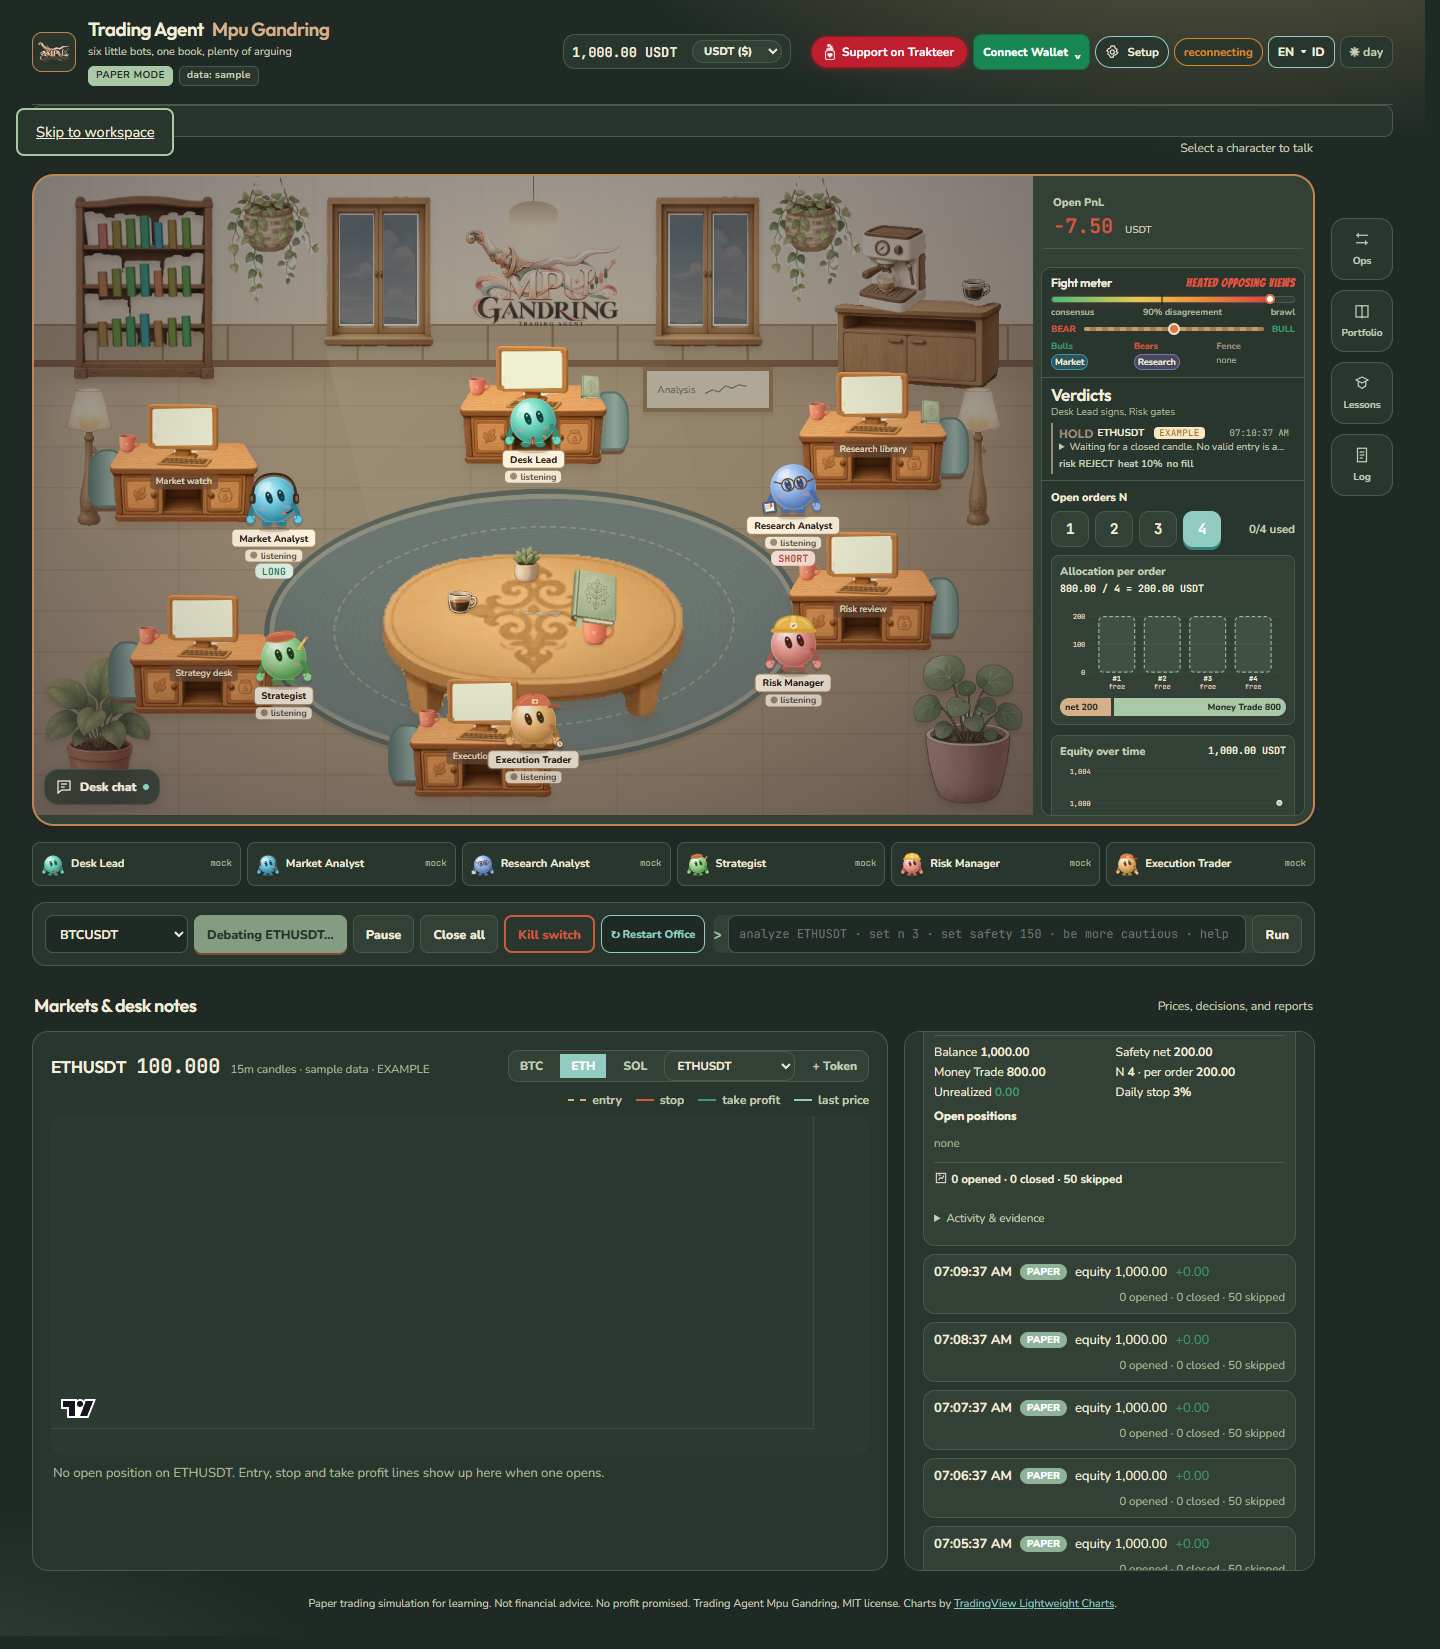
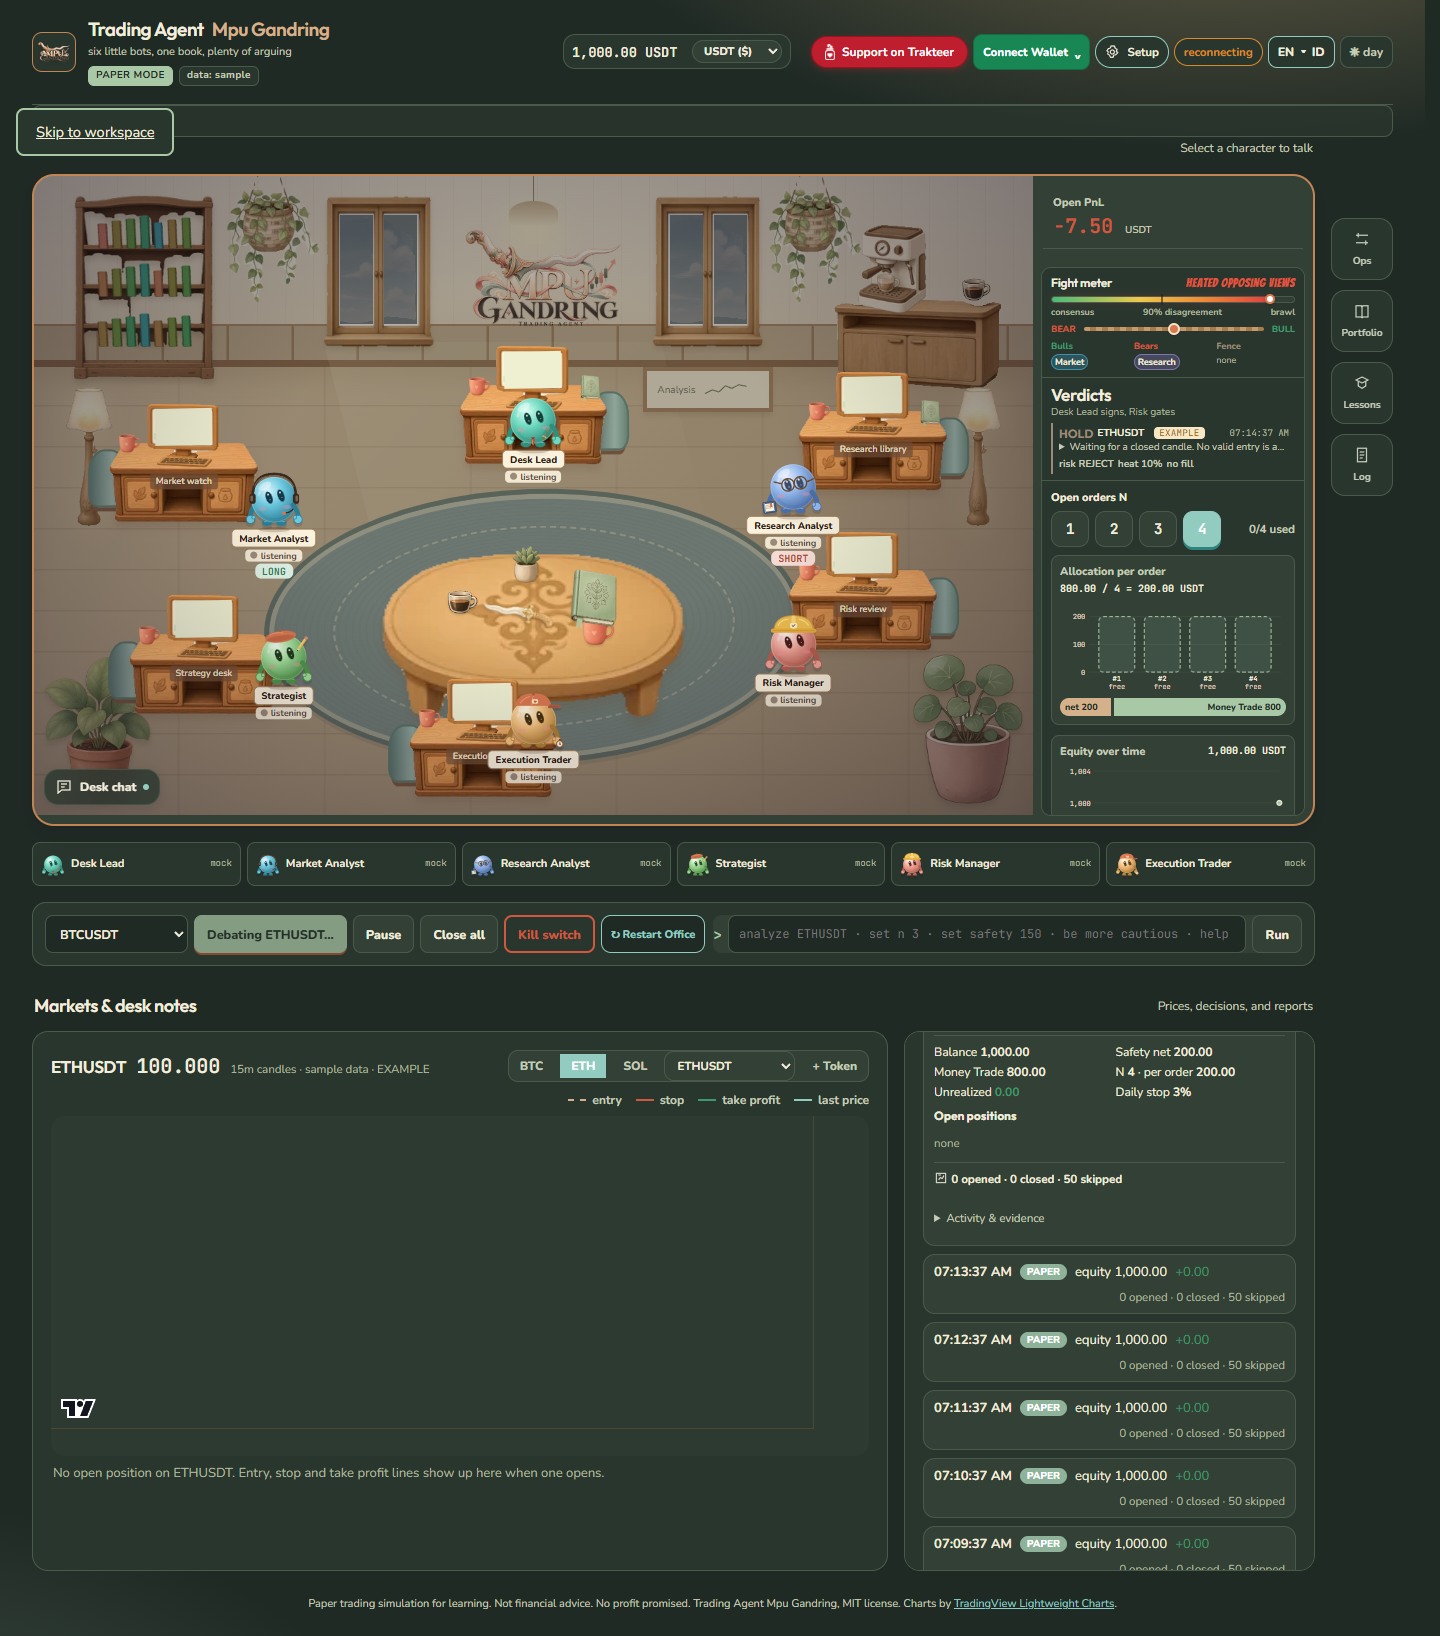
Use supplied keris artwork on discussion table

diff --git a/tests/i18n.test.ts b/tests/i18n.test.ts
@@ -43,22 +43,22 @@ describe('Dual language i18n parity and updater adapter', () => {
   });
 
   it('compares dotted version strings and checks update status at current release version', async () => {
-    expect(APP_VERSION).toBe('0.0.0.3.6');
+    expect(APP_VERSION).toBe('0.0.0.3.7');
     expect(compareVersions('0.0.0.2.6', '0.0.0.2.6')).toBe(0);
     expect(compareVersions('0.0.0.2.6', '0.0.0.2.5')).toBe(1);
     expect(compareVersions('0.0.0.3.3', '0.0.0.2.6')).toBe(1);
     expect(compareVersions('0.0.0.1.9', '0.0.0.2.6')).toBe(-1);
 
     const fakeNewerFetch = async () =>
-      new Response(JSON.stringify({ appVersion: '0.0.0.3.7', changelog: ['New feature'] }), { status: 200 });
+      new Response(JSON.stringify({ appVersion: '0.0.0.3.8', changelog: ['New feature'] }), { status: 200 });
     const st = await checkUpdate(fakeNewerFetch as unknown as typeof fetch);
     expect(st.ok).toBe(true);
-    expect(st.currentVersion).toBe('0.0.0.3.6');
-    expect(st.latestVersion).toBe('0.0.0.3.7');
+    expect(st.currentVersion).toBe('0.0.0.3.7');
+    expect(st.latestVersion).toBe('0.0.0.3.8');
     expect(st.updateAvailable).toBe(true);
 
     const applied = applyUpdate(process.cwd(), () => ({ status: 0, stdout: 'Already up to date.\\n', stderr: '' }));
     expect(applied.ok).toBe(true);
-    expect(applied.currentVersion).toBe('0.0.0.3.6');
+    expect(applied.currentVersion).toBe('0.0.0.3.7');
   });
 });

diff --git a/web/src/components/Office.tsx b/web/src/components/Office.tsx
@@ -3,7 +3,6 @@ import type { ReactNode } from 'react';
 import type { AgentId, AgentView, DeskState, Fight, Reaction, Speech } from '../types';
 import { AGENT_ORDER } from '../types';
 import { Bot, type Face, type Pose } from './Bot';
-import { KerisBlade } from './Keris';
 import { Sparkline } from './MiniCharts';
 import { SEATS, WORKSTATIONS, FIGHT_STAGE, SPECTATORS, heatedDebateFight, officePnl, route, type Activity, type Point, type SceneEvent } from '../sceneDirector';
 import { useSceneDirector } from '../useSceneDirector';
@@ -208,7 +207,7 @@ export function Office({ state, sceneEvents, speech, fights, reactions, disagree
       </div>
       <div className="studio-meeting" style={{ left: '50%', top: '72%' }} aria-label="Agent discussion table">
         <img src={asset('023_keyboard_round-coffee-table')} alt="" />
-        <div className="studio-table-inlay"><KerisBlade size={60} /></div>
+        <div className="studio-table-inlay"><img src={asset('026_curved-blade_ornate-dagger')} alt="" width={337} height={940} /></div>
         <img className="meeting-cup cup-left" src={asset('012_coffee-cup')} alt="" />
         <img className="meeting-cup cup-right" src={asset('001_ceramic-mug')} alt="" />
         <img className="meeting-book" src={asset('030_closed-book')} alt="" />

diff --git a/web/src/styles/office-v2.css b/web/src/styles/office-v2.css
@@ -53,7 +53,8 @@
 .studio-wall-board svg { width: 45%; height: 100%; }
 .studio-meeting { position: absolute; width: 31%; aspect-ratio: 1.8; transform: translate(-50%, -50%); z-index: 720; pointer-events: none; }
 .studio-meeting > img:first-child { position: absolute; width: 100%; height: 100%; object-fit: fill; filter: drop-shadow(0 9px 5px #69503138); }
-.studio-table-inlay { position: absolute; top: 17%; left: 50%; transform: translateX(-50%) rotate(90deg); opacity: .42; }
+.studio-table-inlay { position: absolute; top: 18%; left: 45%; width: 8%; transform: translateX(-50%) rotate(90deg); }
+.studio-table-inlay img { display: block; width: 100%; height: auto; filter: drop-shadow(1px 2px 1px #69503138); }
 .studio-meeting .meeting-cup { position: absolute; width: 10%; height: auto; filter: drop-shadow(0 2px 1px #69503138); }
 .meeting-cup.cup-left { left: 22%; top: 23%; }.meeting-cup.cup-right { right: 24%; top: 40%; }
 .studio-meeting .meeting-book { position: absolute; left: 61%; top: 12%; width: 17%; height: auto; transform: rotate(16deg); }

diff --git a/server/updater.ts b/server/updater.ts
@@ -2,7 +2,7 @@ import { spawnSync } from 'node:child_process';
 import { readFileSync } from 'node:fs';
 import path from 'node:path';
 
-export const APP_VERSION = '0.0.0.3.6';
+export const APP_VERSION = '0.0.0.3.7';
 export const REPO_RAW_PKG_URL = 'https://raw.githubusercontent.com/aabrur/trading-agent-mpu-gandring/main/package.json';
 export const REPO_URL = 'https://github.com/aabrur/trading-agent-mpu-gandring';
 

diff --git a/README.md b/README.md
@@ -14,15 +14,15 @@ You watch all of it live in a little virtual office in your browser, and you can
 
 Screenshots use isolated PAPER/mock fixtures and simulated data. They demonstrate the interface, not exchange execution or trading results.
 
-## Illustrated office (v0.0.0.3.6)
+## Illustrated office (v0.0.0.3.7)
 
 The office uses supplied wood furniture, a shared carved discussion table, a stocked library, sky windows, hanging plants, lamps and a coffee corner. Six animated characters retain their own workstation, role accessories, activity, debate and chat controls. Day and night themes extend across the room, map panels, agent roster, markets and reports.
 
 The office opens directly below the ticker, without a workspace hero or account-summary section. The six-agent roster stays in one compact, equal-height row, with horizontal scrolling on narrow screens. Open-order controls, allocation, equity history and positions sit in the map rail alongside Open PnL, the fight meter and verdicts. The rail scrolls independently on desktop. Portfolio retains balance, safety-net and venue-account settings.
 
-The wall displays only the project logo. An espresso machine sits on the coffee counter, and the discussion table carries coffee, a book, a plant and its keris ornament. Tool panels freeze background-page scrolling while the pointer is inside, and release it on pointer exit or close. Map PnL shows the label and USDT value without mode/source text; provenance remains accessible in its description. Existing trading commands and guards keep their behavior.
+The wall displays only the project logo. An espresso machine sits on the coffee counter, and the discussion table carries coffee, a book, a plant and the supplied ornate keris artwork (`026_curved-blade_ornate-dagger`). Tool panels freeze background-page scrolling while the pointer is inside, and release it on pointer exit or close. Map PnL shows the label and USDT value without mode/source text; provenance remains accessible in its description. Existing trading commands and guards keep their behavior.
 
-Runtime artwork lives in `web/public/office-assets/`: 18 optimized WebP images, about 279 KiB total, with original filenames and archive provenance in `manifest.json`. The supplied `web/public/mpu-gandring-assets/` authoring library stays local and is ignored by Git. Production builds copy only runtime artwork and the two branding images, so clones do not need the original library. Replaced inline room artwork and furniture CSS have been removed.
+Runtime artwork lives in `web/public/office-assets/`: 19 optimized WebP images, about 289 KiB total, with original filenames and archive provenance in `manifest.json`. The supplied `web/public/mpu-gandring-assets/` authoring library stays local and is ignored by Git. Production builds copy only runtime artwork and the two branding images, so clones do not need the original library. Replaced inline room artwork and furniture CSS have been removed.
 
 Validation: typecheck, production build and offline UI checks pass, including desktop, 375px phone, 812px landscape, night mode, loaded artwork, wallet sessions, discussion, compact roster, panel scroll containment and reduced motion. The full suite remains at its pre-existing baseline of **358 passing / 15 failing tests** in trading-default and risk-related tests. See [the verification record](docs/qa/2026-10-21-office-redesign.md). This release does not resolve those failures.
 
@@ -80,14 +80,14 @@ No model API keys needed: six Grok Bot agents are the employees and the brains, 
 - **A cozy office with brutal cartoon smoke-cloud fights and spectator reactions.** Wood floors, a woven rug, sky windows, a coffee corner and six round little bots with mitten hands. Each role has its own color and prop: tie, keris pin and journal papers for the Lead, headset for Market, glasses and newspaper for Research, beret and pencil for the Strategist, hard hat for Risk and cap and stopwatch for Execution. When disagreement crosses the threshold, agents dive into a cartoon dust/smoke cloud with flying fists, spinning stars, lightning bolts and impact bursts (`GEBUK!`, `POW!`, `WHAM!`, `BONK!`), while bystander bots react with worried expressions and speech without blocking execution.
 - **Interactive pop-up tutorial on every start.** A 9-step guided onboarding tour launches automatically on startup (and via **Setup > Tutorial** in the top bar), highlighting each section of the desk with a spotlight and directional arrow.
 - **Dual language mode: EN and ID.** Defaults to English (`EN`) and switches instantly to Bahasa Indonesia (`ID`) from the top bar (`EN ▾ ID`), backed by a strictly synchronized 1:1 translation dictionary verified by automated tests.
-- **In-app Version & Lit-Up Update Notification (`v0.0.0.3.6`).** The lit-up version notification badge (`v0.0.0.3.6 · Update ↑`) in the top bar checks GitHub for new releases via `GET /api/update/status` and lets you pull and build the latest version in one click via `POST /api/update/apply`.
+- **In-app Version & Lit-Up Update Notification (`v0.0.0.3.7`).** The lit-up version notification badge (`v0.0.0.3.7 · Update ↑`) in the top bar checks GitHub for new releases via `GET /api/update/status` and lets you pull and build the latest version in one click via `POST /api/update/apply`.
 - **Charts you can read.** A candlestick chart for the selected symbol with a price scale, time labels, the last price and dashed entry, stop and take profit lines for open paper positions. The paper book has an equity curve and allocation bars for Money Trade / N, and every desk monitor shows a sparkline.
 - **Day and night.** A toggle in the top bar. All colors and fonts live in `web/src/styles/tokens.css`.
 - **Live office feed.** Status, speech bubbles and fights stream over WebSocket, next to the fight meter, ticker strip, verdict cards and a desk log.
 - **Talk to the agents.** Click an agent to chat or give commands like `analyze ETHUSDT`, `be more cautious` or `close all`.
 - **Optional Grok Bot bridge.** Send verdicts and commands to a Grok Bot webhook routine from the server. Off by default.
 
-## Compact office controls (v0.0.0.3.6)
+## Compact office controls (v0.0.0.3.7)
 
 - Open **Ops**, **Portfolio**, **Lessons**, or **Log** from the bubble menu at the right. Panels stay closed until selected. Close with the same bubble, the close button, Escape, or a click outside. On phones the menu sits at the bottom-right.
 - **Reports** sits beside the price chart on desktop and below it on narrow screens. Open activity and evidence only when needed.
@@ -139,7 +139,7 @@ Refused everywhere: main wallet private keys, seed phrases, keys that can withdr
 | Interactive onboarding tour | N/A | Launches on every start, or open **Setup > Tutorial** in the top bar |
 | Optional Jev decision sidecar | Setup > Models, `JEV_ENABLED=true` | Shadow does not block. LIVE ASSIST needs Setup authorization. Never places orders |
 | Switch UI language (`EN` default / `ID`) | N/A | **EN ▾ ID** toggle in top bar |
-| Check version (`v0.0.0.3.6`) & one-click update | `git pull --ff-only && npm run build` | Lit-up **v0.0.0.3.6 · Update ↑** button in top bar |
+| Check version (`v0.0.0.3.7`) & one-click update | `git pull --ff-only && npm run build` | Lit-up **v0.0.0.3.7 · Update ↑** button in top bar |
 | Doctor / permission check | `npm run doctor`, `npm run setup -- check-key --network testnet` | Setup > Exchange & Safety **Run doctor** |
 | Switch mode to TESTNET or LIVE | `npm run setup -- --yes --trading-mode testnet` / `... live --confirm-live "I understand LIVE trades real money"` | Setup > Exchange & Safety |
 | What is configured with secrets masked | `npm run setup -- status` | Setup header and status lines |
@@ -415,7 +415,7 @@ server/            Express + WebSocket backend
   exchange/        adapter interface; Bybit implemented; Binance, OKX, Hyperliquid, Aster, dYdX, Paradex, Orderly experimental
   live/            automatic key guard, optional testnet round trip, live executor
   wallet.ts        Connect wallet: DEX agent key + one signed approval + live venue balance + official deposit links
-  updater.ts       in-app version check (v0.0.0.3.6) and one-click git fast-forward updater
+  updater.ts       in-app version check (v0.0.0.3.7) and one-click git fast-forward updater
   auto.ts          full auto scheduler
   reports.ts       periodic reports to files, UI, bridge and Telegram
   learnings.ts     self-improving lessons store and the guard-loosening block
@@ -453,7 +453,7 @@ Proyek ini simulasi trading kertas secara default. Enam agen AI berdebat, kadang
    mpu
    ```
 3. Ketik `mpu` kapan saja di terminal untuk langsung menjalankan desk dan membuka Web UI secara otomatis, atau `mpu setup` untuk langsung membuka menu pengaturan bernavigasi sidebar kiri. Di halaman Setup, Anda bisa mengatur saldo paper, safety net, memilih model untuk setiap agent dari 10 provider yang masing-masing menyediakan 20 model AI sehingga 1 API key bisa dipakai untuk banyak model, atau langsung menghubungkan agent CLI yang sudah terpasang di laptop Anda seperti Codex, Claude Code, Pi, Kimi Code, Kilo, Cline dan Grok Build maupun supervisor eksternal seperti Antigravity dan Grok Bot.
-4. Tanpa API key pun jalan, karena ada provider `mock`. Di navbar bagian atas tersedia dropdown **Connect Wallet** khusus wallet EVM DEX, tombol **Setup**, menu **Setup > Tutorial** untuk panduan pop-up interaktif 9 langkah, tombol **v0.0.0.3.6** untuk cek & klik update versi secara langsung, serta tombol **EN ▾ ID** untuk mengganti bahasa tampilan antara Bahasa Inggris dan Bahasa Indonesia. Tersedia pula 4 preset risiko trading bawaan (Default, Balance, Profit, High Risk High Reward) yang dapat dipilih langsung dari Setup atau dropdown ringkas di atas tombol Cycle now pada Desk Ops Auto Trade.
+4. Tanpa API key pun jalan, karena ada provider `mock`. Di navbar bagian atas tersedia dropdown **Connect Wallet** khusus wallet EVM DEX, tombol **Setup**, menu **Setup > Tutorial** untuk panduan pop-up interaktif 9 langkah, tombol **v0.0.0.3.7** untuk cek & klik update versi secara langsung, serta tombol **EN ▾ ID** untuk mengganti bahasa tampilan antara Bahasa Inggris dan Bahasa Indonesia. Tersedia pula 4 preset risiko trading bawaan (Default, Balance, Profit, High Risk High Reward) yang dapat dipilih langsung dari Setup atau dropdown ringkas di atas tombol Cycle now pada Desk Ops Auto Trade.
 5. Aturan uang: Money Trade = total saldo dikurangi safety net, lalu dibagi N order dari 1 sampai 4. Contoh saldo 100, safety net 20, N = 4, berarti 20 USDT per order. Safety net tidak pernah disentuh dan setiap order wajib pakai stop loss. Anda juga bisa memilih token perp apa saja lewat dropdown Watchlist, Popular Perps, atau `+ Custom token...` di Price Chart, Command Bar, dan Desk Ops.
 6. Mau trading di exchange? Pakai akun dan key **milik Anda sendiri**. Urutannya PAPER, lalu TESTNET, LIVE paling akhir. Jalankan `mpu setup` atau `npm run setup` atau klik tombol **Setup** di kanan atas office: pilih venue dan mode, ikuti link langsung satu per satu untuk daftar, dana tes, halaman pembuatan key dan izin yang dicentang, lalu ketik key di input tersembunyi. Key masuk ke `.env` dengan chmod 600, tidak pernah ke chat. Izin: trade saja, withdraw dan transfer MATI. Private key dompet utama dan seed phrase selalu ditolak. Untuk DEX (`Hyperliquid`, `Aster`, `dYdX v4`, `Paradex`, `Orderly`) bisa melalui tombol **Connect Wallet** yang juga menampilkan saldo USDT secara live serta tombol **Halaman deposit resmi** untuk setiap DEX/CEX. Setelah itu jalankan `npm run doctor`. Panduan per venue: [docs/setup/](docs/setup/README.md). Untuk LIVE harus mengetik kalimat konfirmasi.
 7. Pakai agen AI sendiri? Grok Bot: [grokbot/INSTALL.md](grokbot/INSTALL.md), jalan di komputer Grok Bot, bukan laptop kamu. Muse Code: [docs/muse-code.md](docs/muse-code.md) dan [MUSE.md](MUSE.md). Claude Code, Codex, Antigravity, Cursor atau Copilot: [AGENTS.md](AGENTS.md) dan [docs/local-agents.md](docs/local-agents.md).

diff --git a/docs/qa/2026-10-21-office-redesign.md b/docs/qa/2026-10-21-office-redesign.md
@@ -37,3 +37,7 @@ Open-order content was moved into a shared component without changing its N-sett
 Verification: typecheck and production build passed. The offline browser verifier passed at 1440px desktop, 375px phone and 812px landscape, day/night themes and reduced motion. Added checks cover section removal, asset loading and logo/decor placement, single-row 44px roster items, tool-panel pointer enter/exit scroll locking, order controls in the map rail, and mode/source labels omitted from map PnL with a simulated LIVE snapshot. No real trading server was contacted. Full test suite remains 358 passed / 15 failed in the same seven baseline files.
 
 Runtime artwork now has 18 WebP images, 285,218 bytes total. README screenshots were refreshed from isolated PAPER fixtures.
+
+## Table keris replacement: v0.0.0.3.7
+
+Replaced only the discussion-table KerisBlade drawing with an optimized WebP of the supplied `026_curved-blade_ornate-dagger.png`. Adjusted its size and position to fit among the existing decorations. Typecheck, production build and the offline office UI verifier passed; the resulting browser screenshot was inspected. Full-suite failures were not repaired or revalidated for this asset-only change. The existing baseline remains documented above.
